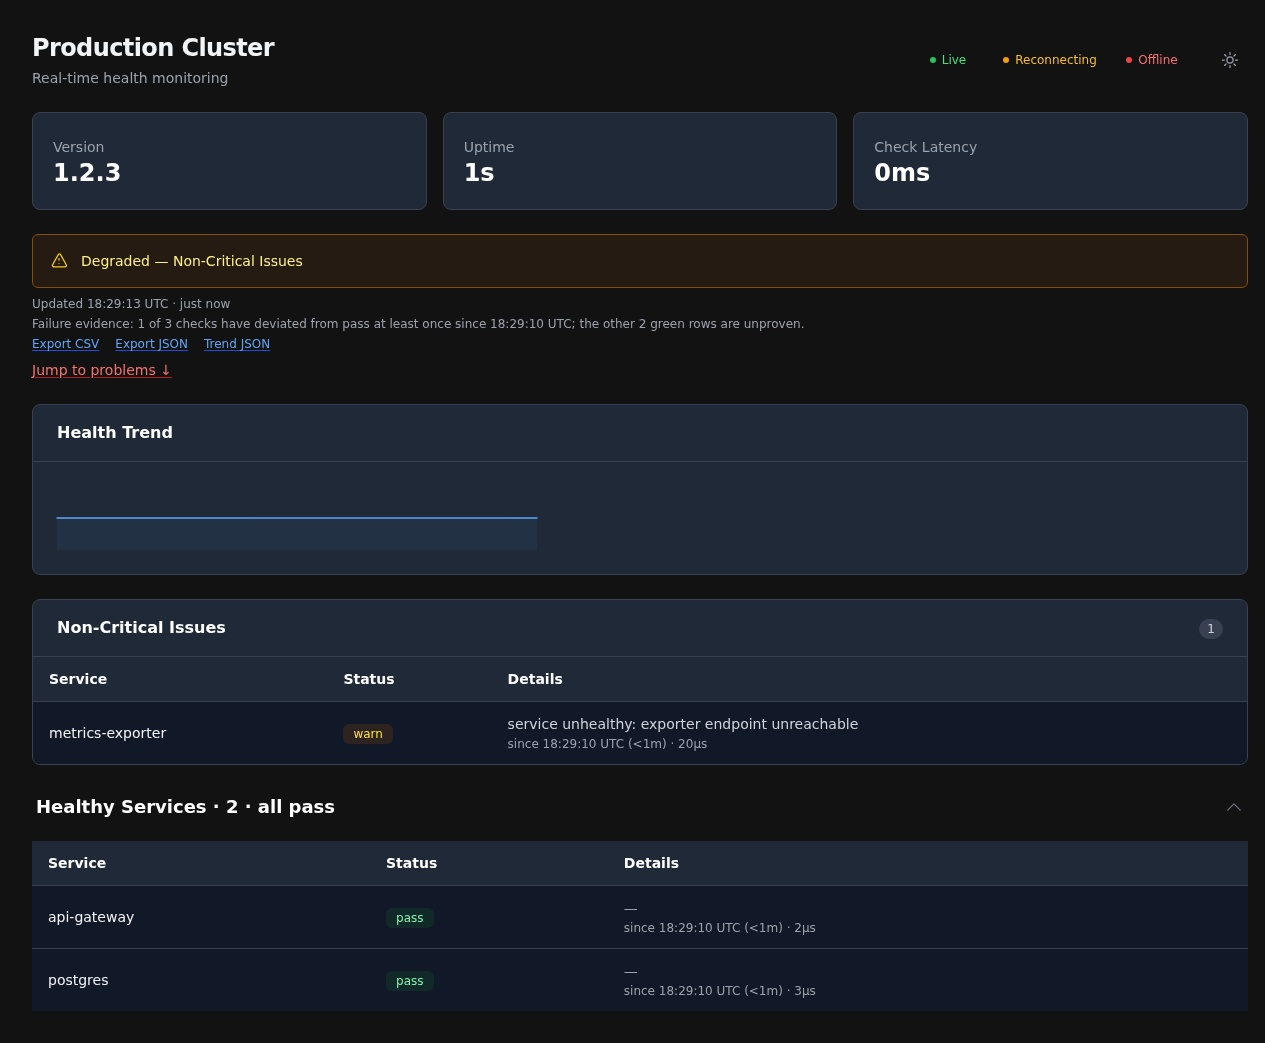
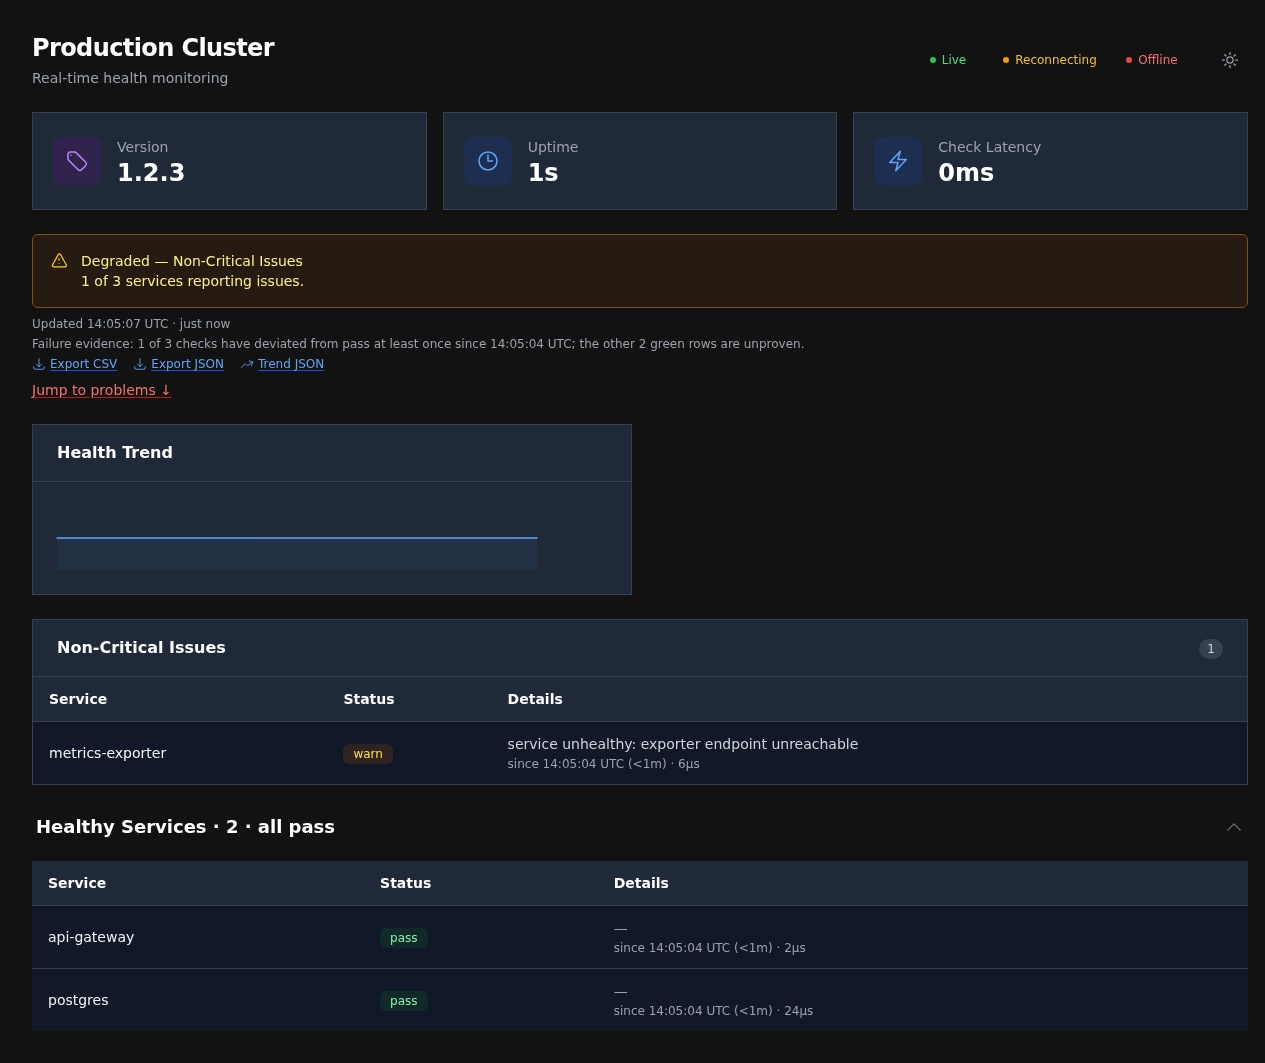
chore: auto-commit 5 changed file(s) (heuristic)

diff --git a/AGENTS.md b/AGENTS.md
@@ -202,9 +202,27 @@ layout) and `docs/adr/0002-error-sentinel-family.md` (pusher-state sentinels).
   `docs/status/archived/2026-09-04_19-15_bisectability-audit.md` (re-run
   the extension's pinned-toolchain method — the ambient go now
   false-fails every post-bump commit).
-- **UI dependencies are pinned and guarded** — templ-components v1.18.0 + go-datastar v0.5.0, re-audited 2026-09-18 with a green browser suite (the 2026-09-10 v1.16.0 audit retired the axe `definition-list`/`dlitem` tolerance in `TestBrowser_Accessibility` after upstream templ-components#6 was fixed; the audit now fails on any serious/critical violation, both themes). Undocumented sweeps have landed seven times (v1.18.0 arrived as an unguarded deps commit, 2026-09-18); `scripts/check-ui-pins.sh` (CI Build+Test steps) fails loudly on any movement. UI bumps require a dedicated change with a green browser suite — the unit suite cannot see these regressions — and the guard pins must be updated IN THE SAME CHANGE as any bump (a bump without its guard update leaves CI red). Script-emitting upstream components (CopyButton, Tooltip) are vetted for nonce/CSP compatibility before adoption: per-element inline scripts and unconditional `nonce=""` attributes clash with the per-request-nonce and SSE-patch paths here.
+- **UI dependencies are pinned and guarded** — templ-components v1.21.0
+  (root/datastar/utils/icons) + go-datastar v0.6.2 / static v0.6.1,
+  re-audited 2026-10-09 with a green browser suite (the 2026-09-10 v1.16.0
+  audit retired the axe `definition-list`/`dlitem` tolerance in
+  `TestBrowser_Accessibility` after upstream templ-components#6 was fixed;
+  the audit now fails on any serious/critical violation, both themes).
+  Undocumented sweeps have landed eight times (v1.19.2→v1.21.0 rode the
+  2026-10-08 fleet sweep, daemon commit `54cdc59`; adopted deliberately
+  2026-10-09); `scripts/check-ui-pins.sh` (CI Build+Test steps) fails
+  loudly on any movement. UI bumps require a dedicated change with a green
+  browser suite — the unit suite cannot see these regressions — and the
+  guard pins must be updated IN THE SAME CHANGE as any bump (a bump
+  without its guard update leaves CI red). Script-emitting upstream
+  components (CopyButton, Tooltip) are vetted for nonce/CSP compatibility
+  before adoption: per-element inline scripts and unconditional `nonce=""`
+  attributes clash with the per-request-nonce and SSE-patch paths here.
+  Upstream StatCard icon tiles use `text-green-600` on the green tone —
+  banned page-wide by `TestRender_ContrastSafeStatusColors`, so stat-card
+  tones stay in the blue/purple families (contrast-measured).
 - **Datastar v1.0 attribute names are colon-keyed** — the SDK (pinned
-  v0.5.0 bundle) registers plugins by name and splits keys on `:`:
+  v0.6.2 bundle) registers plugins by name and splits keys on `:`:
   `data-bind="query"` (not the pre-1.0 `data-model`) and
   `data-class:hidden="expr"` (not `data-class-hidden` — plugin names
   contain hyphens, so hyphen-keyed class attributes silently match
